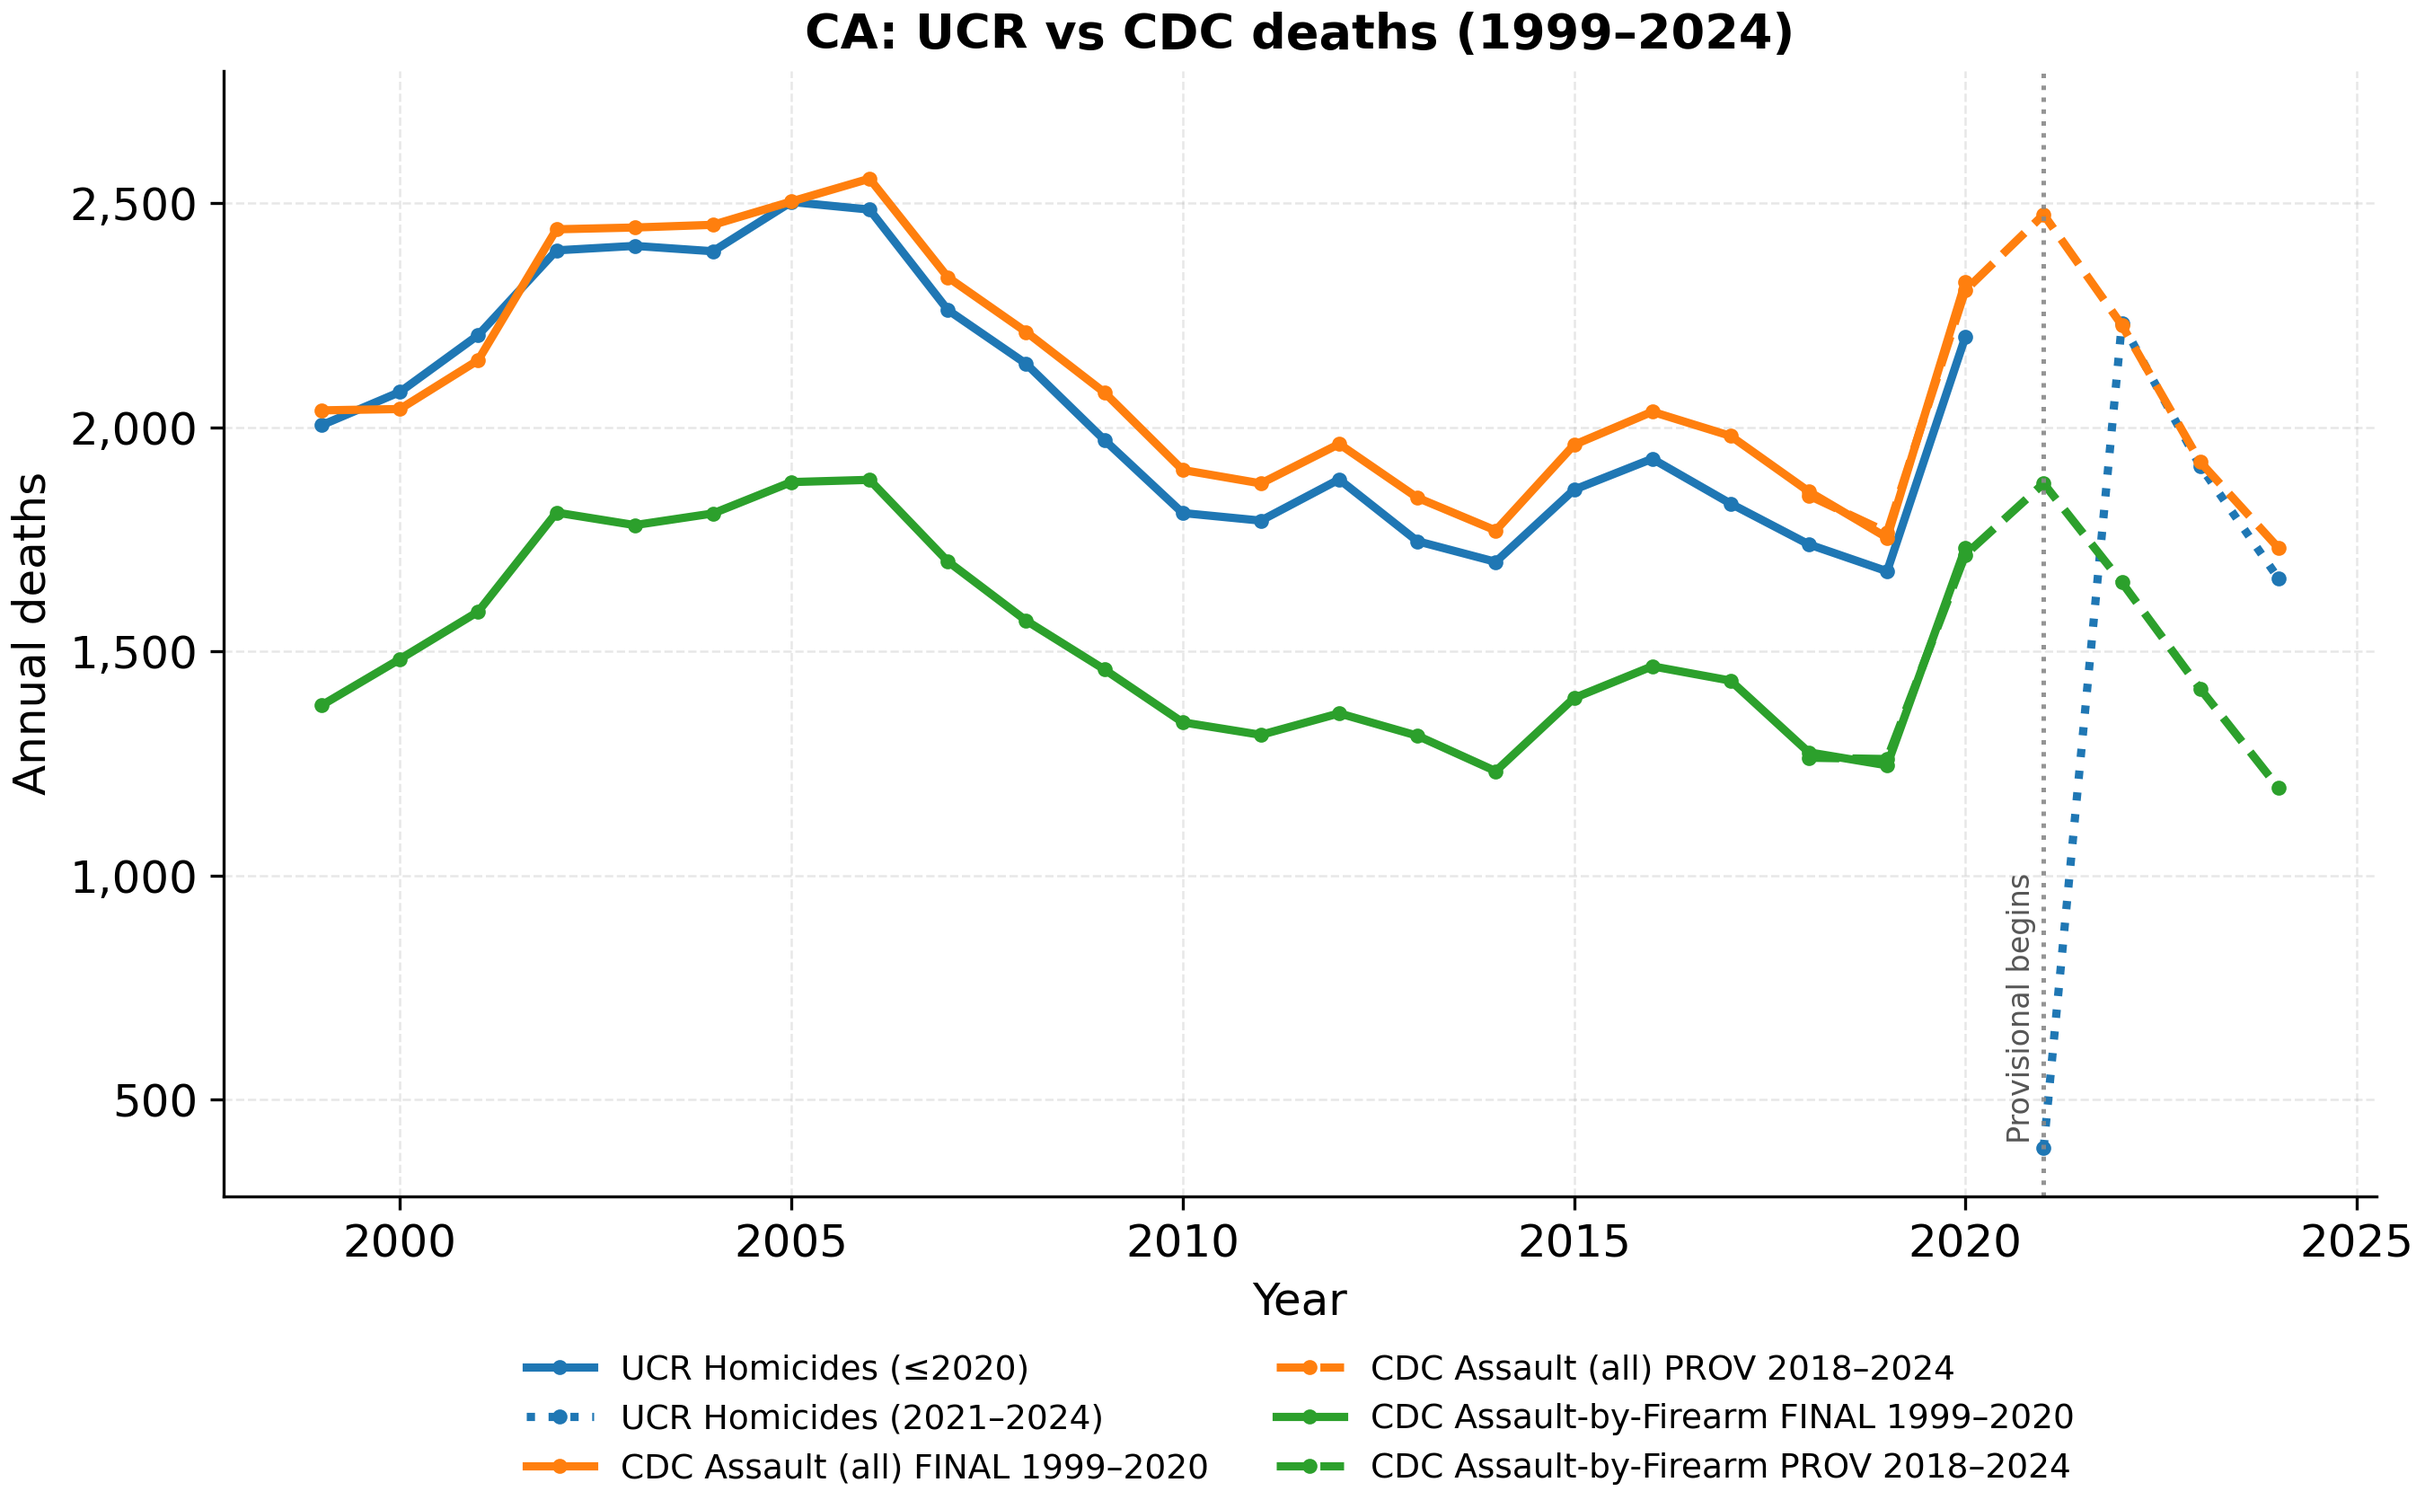
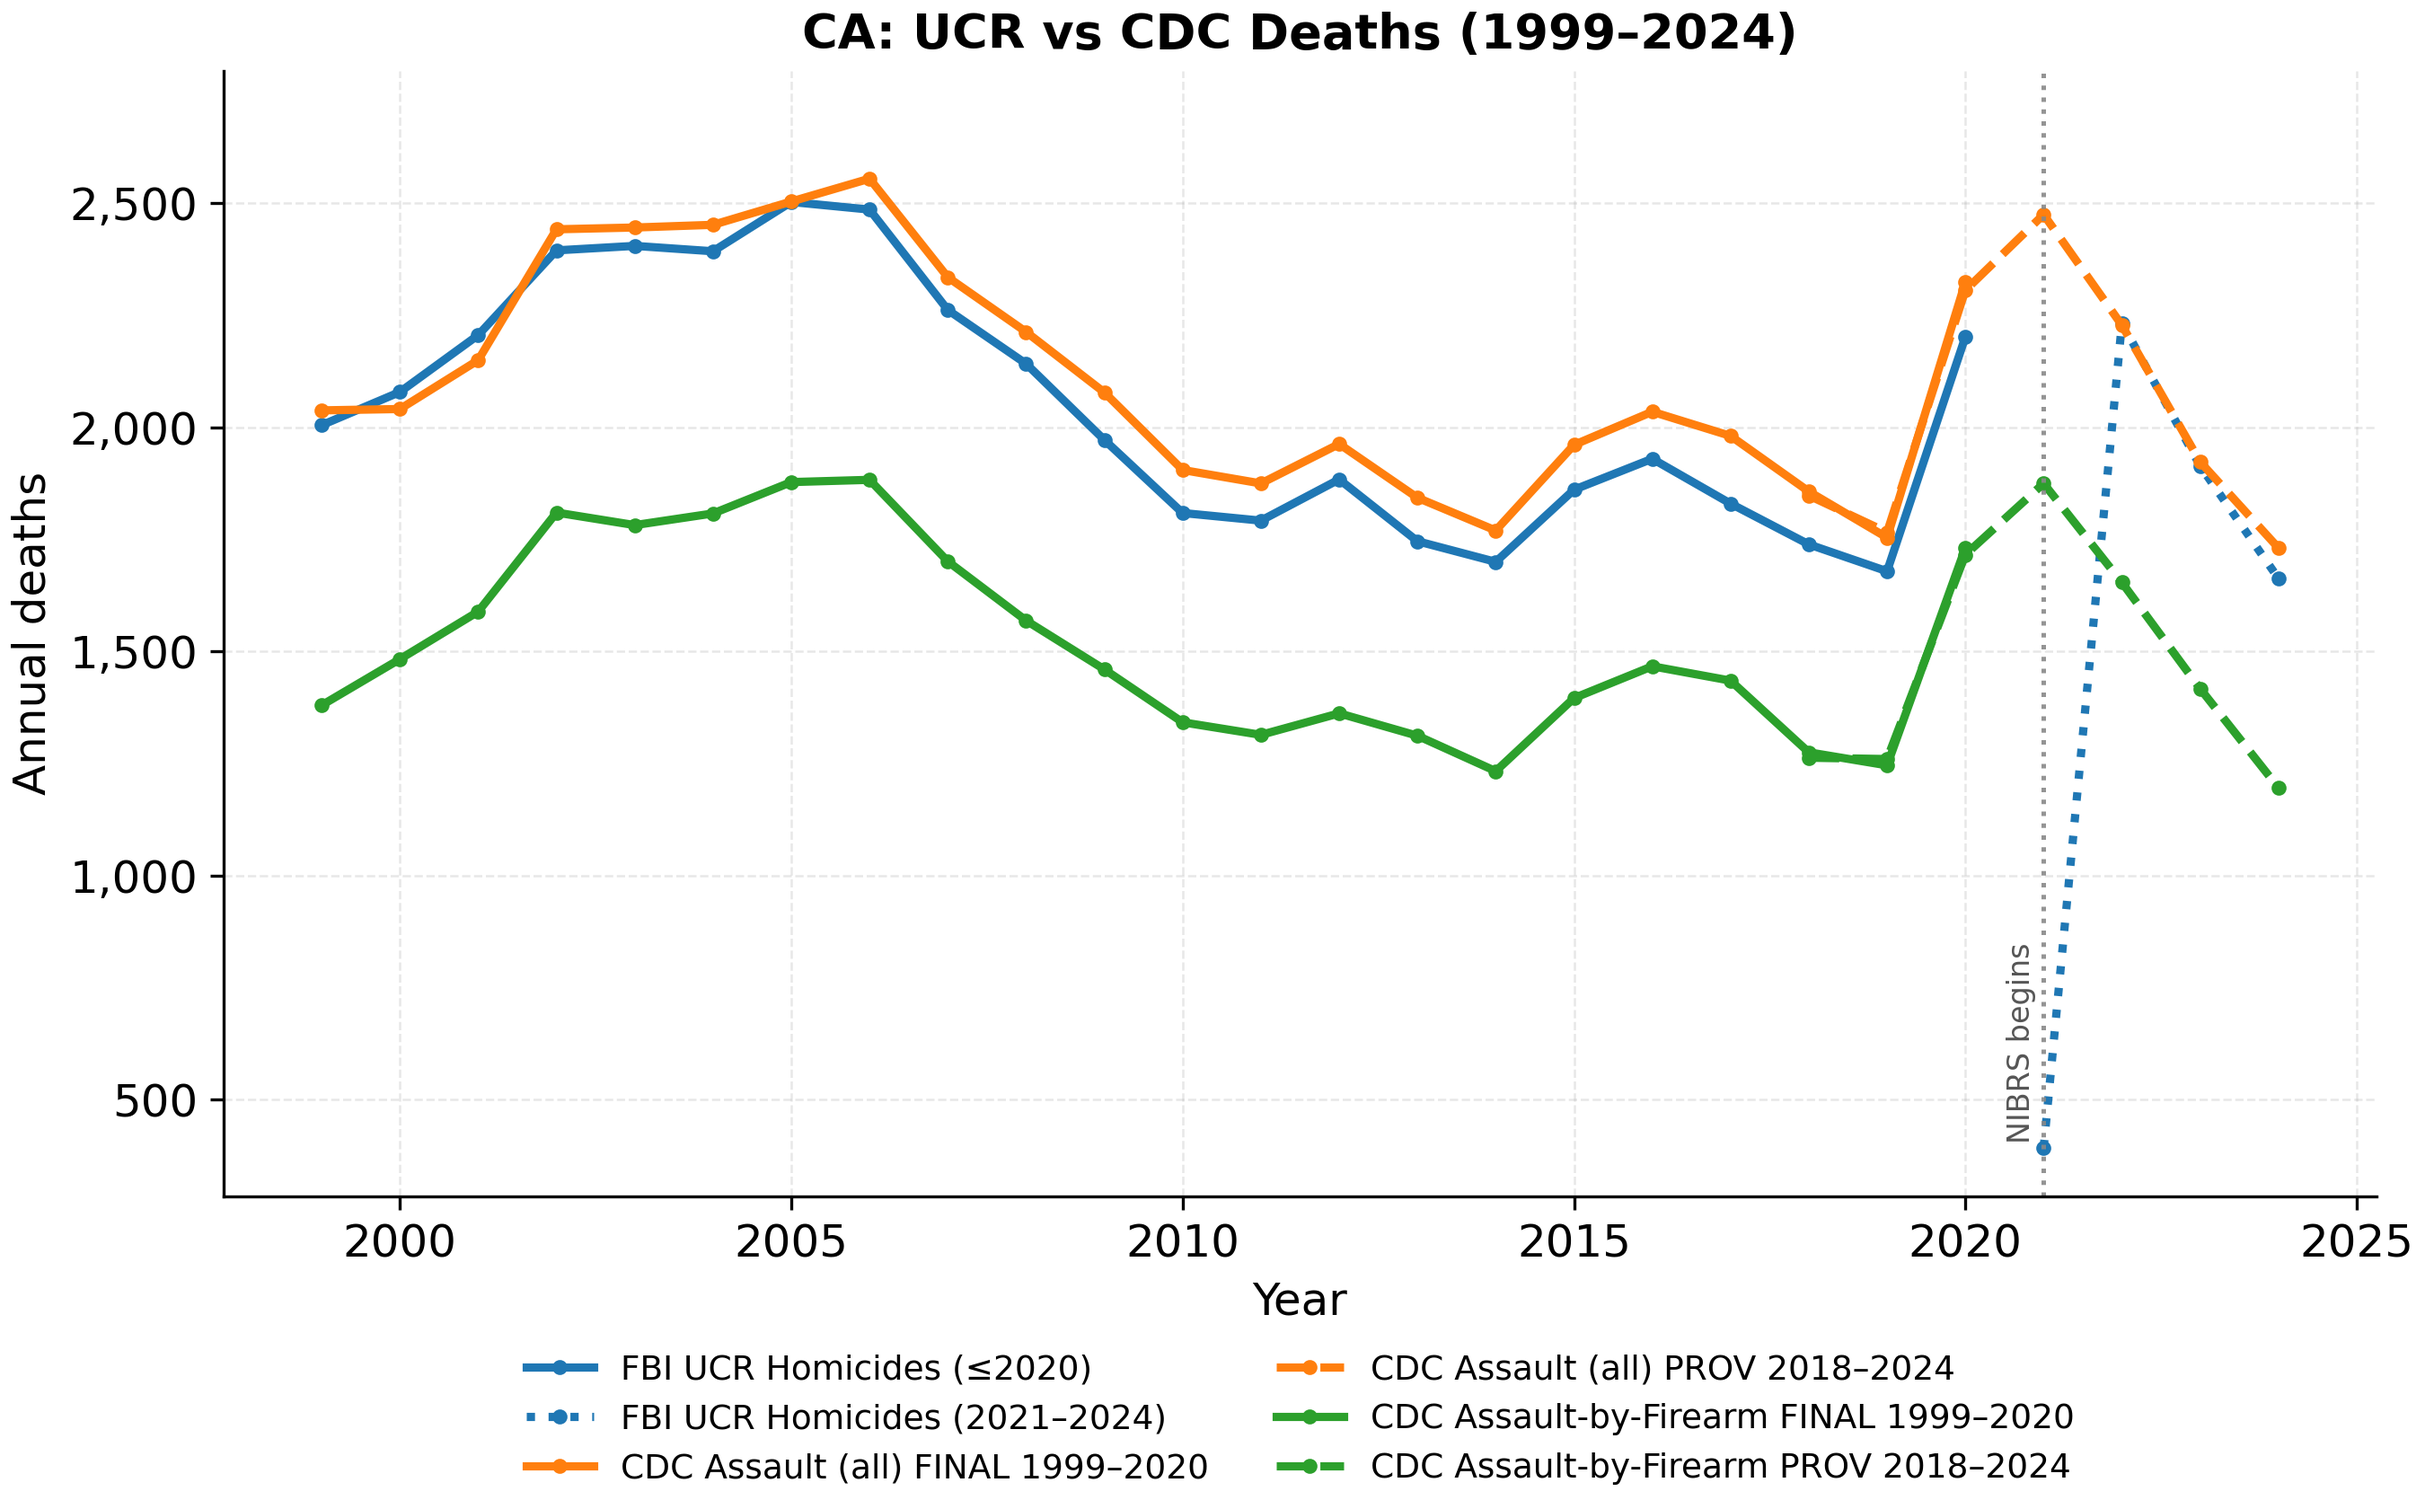
added the CIUS plots, some updates to 2025-09-16-gun-data.md

Changed region(s): [[0.3422, 0.0, 0.7467, 0.031], [0.2489, 0.8976, 0.4667, 0.9595], [0.8089, 0.5881, 0.84, 0.7429]]

diff --git a/_posts/2025-09-16-gun-data.md b/_posts/2025-09-16-gun-data.md
@@ -149,7 +149,7 @@ For the 2022 data year, to provide nationally representative data, the FBI accep
 
 https://cde.ucr.cjis.gov/LATEST/webapp/#/pages/about
 
-### Total Incident Counts in California, Mississippi, New York, and Texas
+### Total Incident Counts in California, Mississippi, New York, and Texas (UCR Raw Reporting)
 
 "The FBI’s UCR Program defines murder and nonnegligent manslaughter as the willful (nonnegligent) killing of one human being by another. The classification of this offense is based solely on police investigation as opposed to the determination of a court, medical examiner, coroner, jury, or other judicial body. The UCR Program does not include the following situations in this offense classification: deaths caused by negligence, suicide, or accident; justifiable homicides; and attempts to murder or assaults to murder, which are classified as aggravated assaults."[^10] "The UCR Program includes data from more than 18,000 city, university and college, county, state, tribal, and federal law enforcement agencies. Agencies participate voluntarily and submit their crime data either through a state UCR program or directly to the FBI's UCR Program."[^9]
 
@@ -172,6 +172,20 @@ Aside from these outlier patterns, based on the agency information given (UCR pa
 {% include figure image_path="/images/blog_images/ny_UCR_CDC_deaths_6lines_1999_2024.png" alt="UCR Homicides vs CDC Assault vs CDC Assault-by-Firearm" caption="NY Homicide Trends" width="70%" %}
 
 {% include figure image_path="/images/blog_images/tx_UCR_CDC_deaths_6lines_1999_2024.png" alt="UCR Homicides vs CDC Assault vs CDC Assault-by-Firearm" caption="TX Homicide Trends" width="70%" %}
+
+
+### Total Incident Counts in California, Mississippi, New York, and Texas (CIUS Reporting)
+
+This is the data the JAG funding is based on (2018-2020), fiscal year 2024. Will they use 2022-2024 for FY 2025? 
+
+{% include figure image_path="/images/blog_images/ca_CDC_UCR_CIUS_deaths_8lines_1999_2024.png" alt="CIUS Homicides vs CDC Assault vs CDC Assault-by-Firearm" caption="CA Homicide Trends" width="70%" %}
+
+{% include figure image_path="/images/blog_images/ms_CDC_UCR_CIUS_deaths_8lines_1999_2024.png" alt="CIUS Homicides vs CDC Assault vs CDC Assault-by-Firearm" caption="MS Homicide Trends" width="70%" %}
+
+{% include figure image_path="/images/blog_images/ny_CDC_UCR_CIUS_deaths_8lines_1999_2024.png" alt="CIUS Homicides vs CDC Assault vs CDC Assault-by-Firearm" caption="NY Homicide Trends" width="70%" %}
+
+{% include figure image_path="/images/blog_images/tx_CDC_UCR_CIUS_deaths_8lines_1999_2024.png" alt="CIUS Homicides vs CDC Assault vs CDC Assault-by-Firearm" caption="TX Homicide Trends" width="70%" %}
+
 
 ### Comparing UCR Gaps in California, Mississippi, New York, and Texas
 
